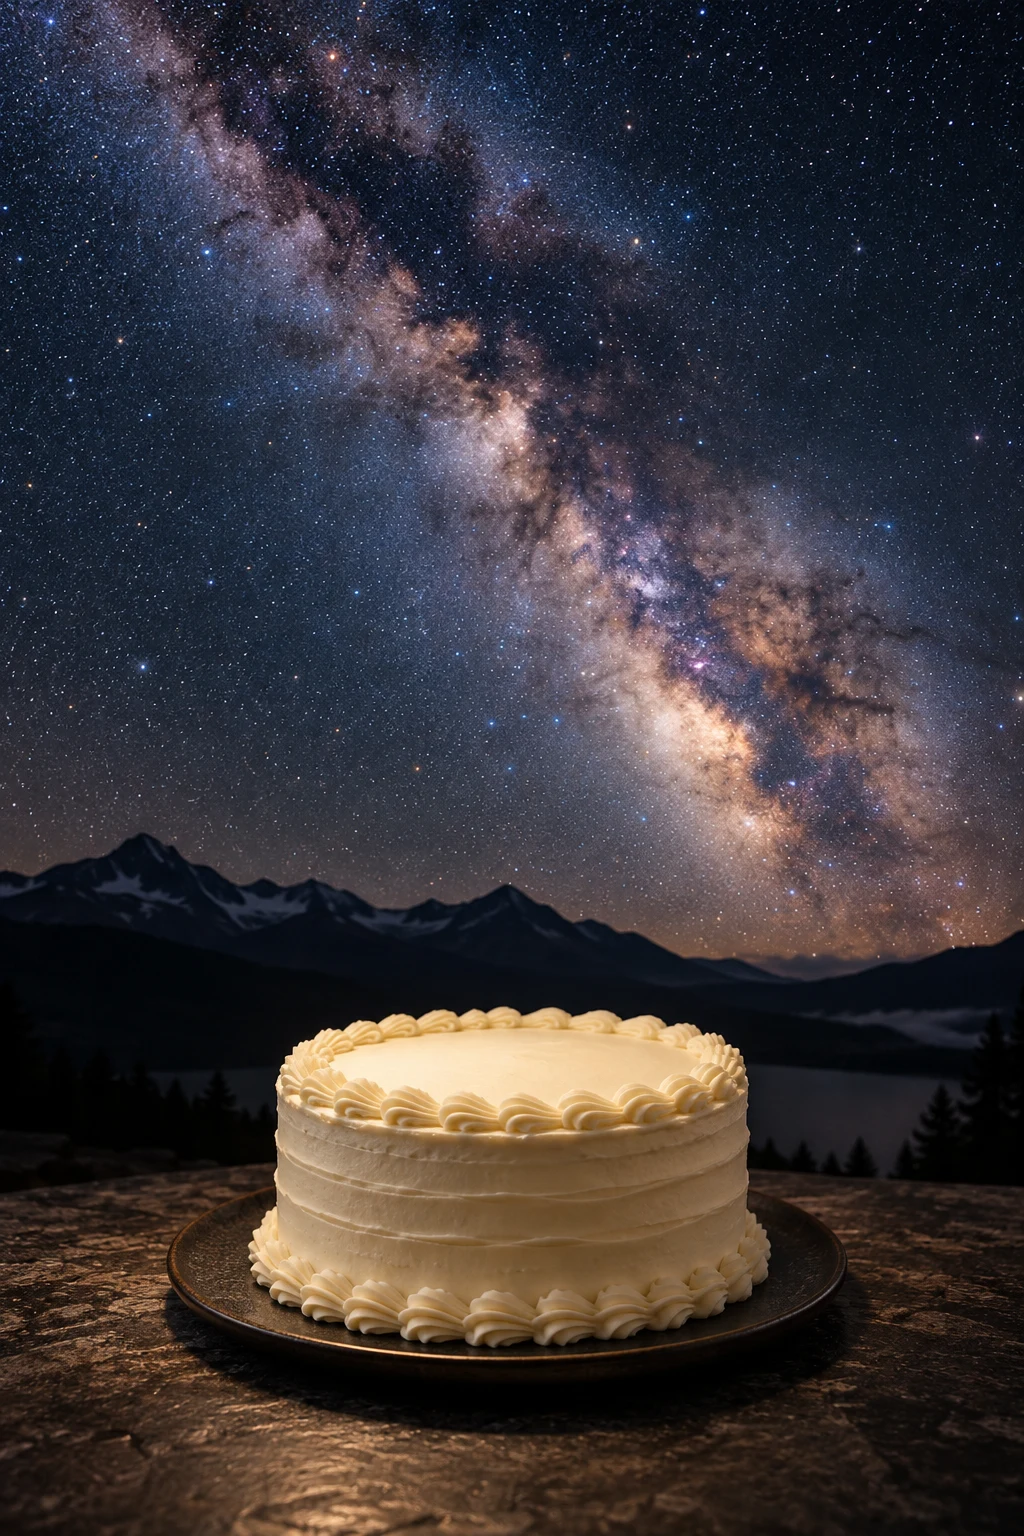
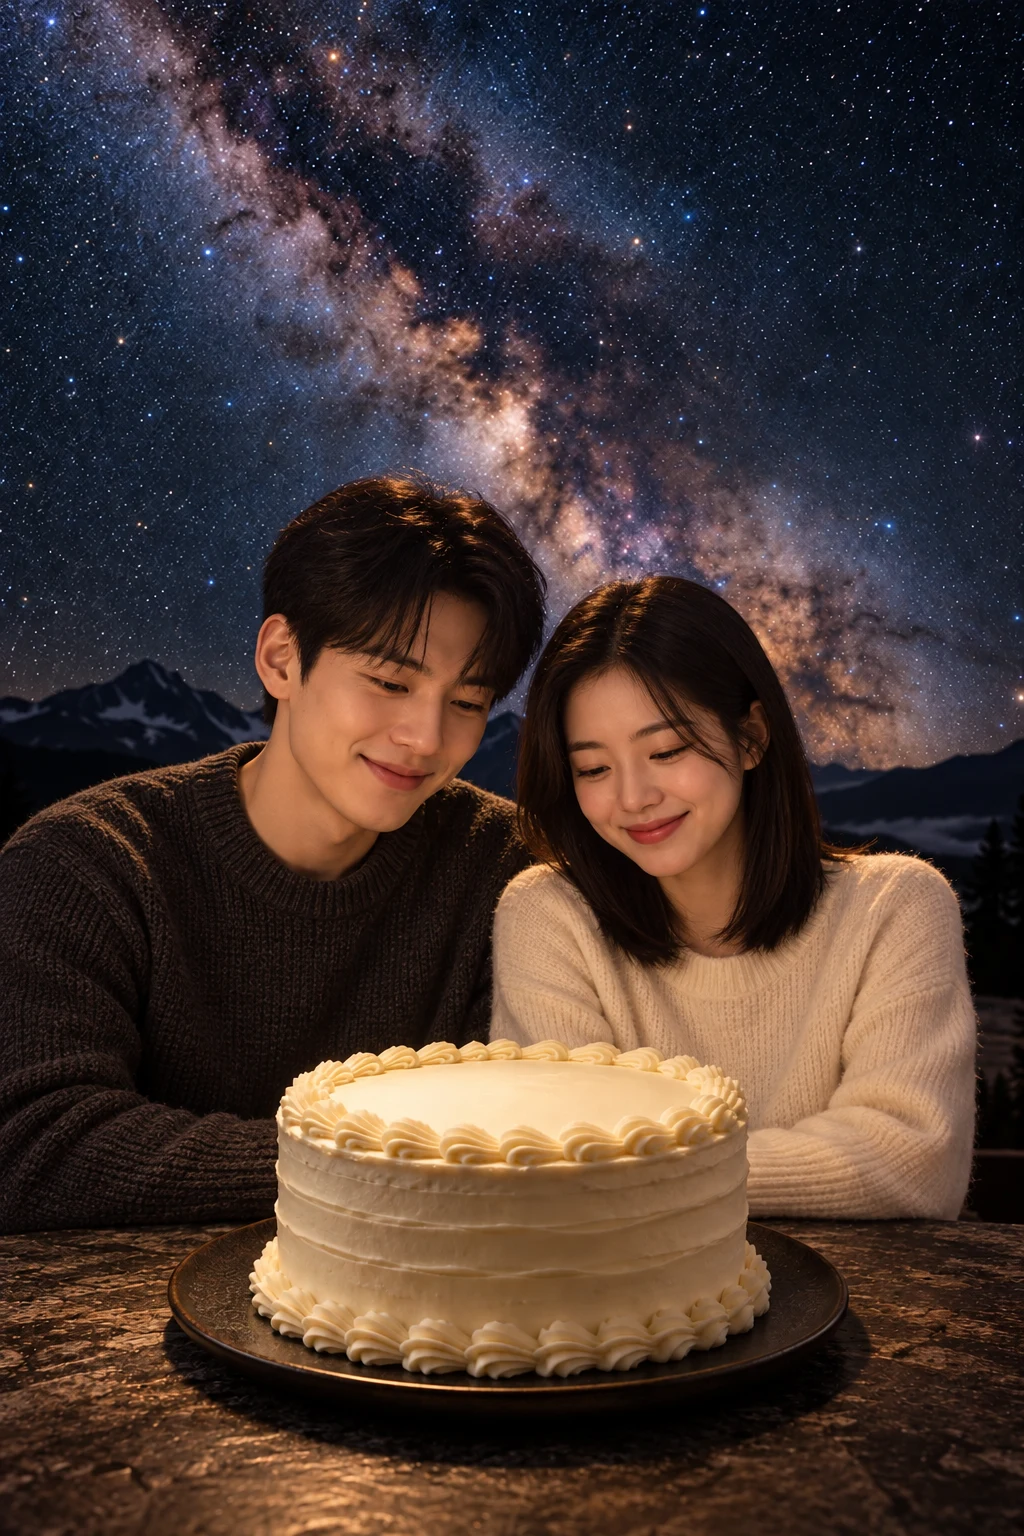
Animate couple blowing out birthday candle under the Milky Way

diff --git a/src/birthday.js b/src/birthday.js
@@ -1,7 +1,7 @@
 /* A date-only gift: no schedule writes, credentials, audio or external requests. */
 (() => {
   'use strict';
-  let dialog, frame = 0, opener;
+  let dialog, frame = 0, opener, blowTimers = [], blowing = false, blowRun = 0;
   const motion = window.matchMedia('(prefers-reduced-motion: reduce)');
   const paragraphs = [
     '생일 축하해!! 출국한 지도 벌써 한달이 넘어가네 교환 준비하고 적응하는 데에 챙길 게 너무 많았을 텐데도 벌써 룸메들이랑 잘 지내는 게 정말 대단하고 멋있어 앞으로도 유덥에서 좋은 시간만 잔뜩 보내고 무사히 돌아왔으면 좋겠다.',
@@ -82,6 +82,46 @@
     frame=requestAnimationFrame(draw);
   }
 
+  function setCandle(out) {
+    dialog.classList.toggle('candles-out', out);
+    dialog.querySelector('.birthday-candle-button').setAttribute('aria-pressed', String(out));
+    dialog.querySelector('.birthday-candle-button').setAttribute('aria-label', out ? '촛불 켜기' : '촛불 끄기');
+    dialog.querySelector('.birthday-blow').textContent = out ? '촛불 켜기' : '촛불 끄기';
+  }
+  function clearBlow() {
+    blowRun++;
+    blowTimers.forEach(clearTimeout); blowTimers = []; blowing = false;
+    dialog.classList.remove('blowing', 'blow-wind');
+    dialog.querySelector('.birthday-stage').removeAttribute('aria-busy');
+    for (const selector of ['.birthday-candle-button', '.birthday-blow']) dialog.querySelector(selector).disabled = false;
+  }
+  function settleBlow() {
+    if (blowing) setCandle(true);
+    clearBlow();
+  }
+  async function toggleCandle() {
+    if (blowing) return;
+    if (dialog.classList.contains('candles-out')) { clearBlow(); setCandle(false); return; }
+    stop();
+    if (motion.matches) { setCandle(true); return; }
+    blowing = true;
+    const run = ++blowRun;
+    dialog.querySelector('.birthday-stage').setAttribute('aria-busy', 'true');
+    for (const selector of ['.birthday-candle-button', '.birthday-blow']) dialog.querySelector(selector).disabled = true;
+    const pose = dialog.querySelector('.birthday-pose');
+    // The extra pose loads when the dialog opens; a missing asset never traps the controls.
+    if (!pose.complete || !pose.naturalWidth) {
+      setCandle(true); clearBlow(); return;
+    }
+    dialog.classList.add('blowing');
+    const later = (ms, action) => blowTimers.push(setTimeout(() => {
+      if (run === blowRun && dialog.open) action();
+    }, ms));
+    later(650, () => dialog.classList.add('blow-wind'));
+    later(1350, () => setCandle(true));
+    later(2600, () => { clearBlow(); celebrate(); });
+  }
+
   function create() {
     dialog = document.createElement('dialog');
     dialog.className = 'birthday-dialog';
@@ -91,7 +131,9 @@
       <div class="birthday-scroll"><section class="birthday-hero">
         <div class="birthday-stage">
           <div class="birthday-scene">
-            <img class="birthday-photo" src="birthday-night.webp" width="1024" height="1536" alt="은하수가 펼쳐진 밤하늘과 생크림 케이크" decoding="async">
+            <img class="birthday-photo" src="birthday-night.webp?v=20261020-4" width="1024" height="1536" alt="은하수 아래 남녀가 함께 케이크를 바라보는 모습" decoding="async">
+            <img class="birthday-pose" src="birthday-blow.webp?v=20261020-4" width="1024" height="1536" alt="" aria-hidden="true" decoding="async">
+            <svg class="birthday-breath" viewBox="0 0 1024 1536" aria-hidden="true"><path d="M609 892 Q574 930 508 979"/><path d="M617 900 Q585 940 516 990"/><path d="M605 888 Q563 916 503 971"/></svg>
             <div class="birthday-candle-glow" aria-hidden="true"></div>
             <button class="birthday-candle-button" type="button" aria-label="촛불 끄기" aria-pressed="false">
               <span class="birthday-wax" aria-hidden="true"></span><span class="birthday-wick" aria-hidden="true"></span>
@@ -114,27 +156,19 @@
     }
     document.body.appendChild(dialog);
     dialog.querySelector('.birthday-close').addEventListener('click', () => dialog.close());
-    dialog.addEventListener('close', () => { stop(); if (opener?.isConnected) opener.focus(); });
-    function toggleCandle() {
-      const out = !dialog.classList.contains('candles-out');
-      dialog.classList.toggle('candles-out', out);
-      dialog.querySelector('.birthday-candle-button').setAttribute('aria-pressed', String(out));
-      dialog.querySelector('.birthday-candle-button').setAttribute('aria-label', out ? '촛불 켜기' : '촛불 끄기');
-      dialog.querySelector('.birthday-blow').textContent = out ? '촛불 켜기' : '촛불 끄기';
-      if (out) celebrate();
-    }
+    dialog.addEventListener('close', () => { clearBlow(); stop(); if (opener?.isConnected) opener.focus(); });
     dialog.querySelector('.birthday-candle-button').addEventListener('click', toggleCandle);
     dialog.querySelector('.birthday-blow').addEventListener('click', toggleCandle);
     dialog.querySelector('.birthday-replay').addEventListener('click', celebrate);
     dialog.querySelector('.birthday-primary').addEventListener('click', event => {
-      stop();
+      settleBlow(); stop();
       dialog.querySelector('.birthday-letter').hidden = false;
       event.currentTarget.setAttribute('aria-expanded', 'true');
       dialog.querySelector('.birthday-letter').focus({preventScroll:true});
       dialog.querySelector('.birthday-letter').scrollIntoView({behavior:motion.matches?'auto':'smooth', block:'start'});
     });
-    document.addEventListener('visibilitychange', () => { if (document.hidden) stop(); });
-    motion.addEventListener('change', stop);
+    document.addEventListener('visibilitychange', () => { if (document.hidden) { settleBlow(); stop(); } });
+    motion.addEventListener('change', () => { settleBlow(); stop(); });
     window.addEventListener('resize', stop);
   }
   window.ScheduleBirthday = {
@@ -142,10 +176,7 @@
       if (!dialog) create();
       if (dialog.open) return;
       opener = document.activeElement;
-      dialog.classList.remove('candles-out');
-      dialog.querySelector('.birthday-candle-button').setAttribute('aria-pressed', 'false');
-      dialog.querySelector('.birthday-candle-button').setAttribute('aria-label', '촛불 끄기');
-      dialog.querySelector('.birthday-blow').textContent = '촛불 끄기';
+      clearBlow(); setCandle(false);
       dialog.querySelector('.birthday-letter').hidden = true;
       dialog.querySelector('.birthday-primary').setAttribute('aria-expanded', 'false');
       dialog.showModal();

diff --git a/src/birthday.css b/src/birthday.css
@@ -11,11 +11,11 @@
 .birthday-stage{position:relative;overflow:hidden;width:100%;height:calc(100vh - 110px - env(safe-area-inset-bottom));height:calc(100dvh - 110px - env(safe-area-inset-bottom));min-height:420px}
 .birthday-scene{position:absolute;left:50%;top:50%;transform:translate(-50%,-50%);width:max(100%,calc((100vh - 110px - env(safe-area-inset-bottom))*2/3));width:max(100%,calc((100dvh - 110px - env(safe-area-inset-bottom))*2/3));min-width:280px;aspect-ratio:2/3}
 .birthday-photo{display:block;width:100%;height:auto}
-.birthday-candle-button{position:absolute;left:50%;top:69.5%;transform:translate(-50%,-100%);width:64px;height:13%;min-height:80px;padding:0;border:0;background:transparent;cursor:pointer;z-index:3;-webkit-tap-highlight-color:transparent}
+.birthday-candle-button{position:absolute;left:50%;top:71.5%;transform:translate(-50%,-100%);width:64px;height:13%;min-height:80px;padding:0;border:0;background:transparent;cursor:pointer;z-index:3;-webkit-tap-highlight-color:transparent}
 .birthday-wax{position:absolute;bottom:0;left:calc(50% - 3px);width:6px;height:48%;border-radius:2px 2px 1px 1px;background:linear-gradient(90deg,#927e5c,#f6e6bb 35%,#ddc99f 70%,#9e8661);box-shadow:2px 1px 3px #0005}
 .birthday-wick{position:absolute;left:calc(50% - .5px);bottom:48%;height:5%;width:1px;background:#322c27}
 .birthday-flame{position:absolute;left:calc(50% - 4px);bottom:51%;width:8px;height:22%;border-radius:60% 40% 45% 45%;background:radial-gradient(ellipse at 50% 88%,#7187d8 0,transparent 25%),linear-gradient(#ffb958,#fffbe3 50%,#fff0ab 80%,#d38028);box-shadow:0 0 7px #ffdb9b,0 0 21px #ffa94d99;transform-origin:50% 100%;animation:birthday-flame 1.8s ease-in-out infinite alternate;transition:opacity .25s,filter .25s}
-.birthday-candle-glow{position:absolute;left:50%;top:66%;width:32%;aspect-ratio:1;transform:translate(-50%,-50%);pointer-events:none;background:radial-gradient(ellipse,#ffce7617,transparent 68%);transition:opacity .6s}
+.birthday-candle-glow{position:absolute;left:50%;top:68%;width:32%;aspect-ratio:1;transform:translate(-50%,-50%);pointer-events:none;background:radial-gradient(ellipse,#ffce7617,transparent 68%);transition:opacity .6s}
 .birthday-smoke{position:absolute;left:calc(50% - 5px);bottom:52%;width:10px;height:45%;border-left:2px solid #c5cbd588;border-radius:50%;filter:blur(2px);opacity:0;pointer-events:none}
 .candles-out .birthday-flame,.candles-out .birthday-candle-glow{opacity:0;animation:none}
 .candles-out .birthday-smoke{animation:birthday-smoke 2.8s ease-out both}
@@ -30,3 +30,13 @@
 @media(prefers-reduced-motion:reduce){.birthday-dialog *{animation:none!important;scroll-behavior:auto!important}}
 @media(max-width:360px){.birthday-scroll{padding-left:14px;padding-right:14px}.birthday-letter{padding:28px 22px}.birthday-hero{width:calc(100% + 28px);margin-left:-14px;margin-right:-14px}}
 @media(min-aspect-ratio:2/3){.birthday-stage{width:calc(max(420px,100dvh - 110px - env(safe-area-inset-bottom))*2/3);max-width:100%;margin-inline:auto}}
+
+.birthday-pose{position:absolute;inset:0;width:100%;height:auto;opacity:0;pointer-events:none;transition:opacity .65s ease-in-out;-webkit-mask-image:radial-gradient(ellipse 40% 29% at 76% 58%,#000 60%,transparent 100%);mask-image:radial-gradient(ellipse 40% 29% at 76% 58%,#000 60%,transparent 100%)}
+.blowing .birthday-pose{opacity:1}
+.birthday-breath{position:absolute;inset:0;width:100%;height:100%;pointer-events:none;opacity:0;fill:none;stroke:#e6e9ed;stroke-width:1;stroke-linecap:round;filter:blur(.6px)}
+.blow-wind .birthday-breath{animation:birthday-breath .8s ease-out both}
+.blow-wind:not(.candles-out) .birthday-flame{animation:birthday-blow-flame .7s ease-in both}
+.birthday-blow:disabled{opacity:.65;cursor:default}
+@keyframes birthday-breath{0%{opacity:0;stroke-dasharray:0 160}35%{opacity:.24;stroke-dasharray:60 160;stroke-dashoffset:0}100%{opacity:0;stroke-dasharray:60 160;stroke-dashoffset:-120}}
+@keyframes birthday-blow-flame{0%{transform:rotate(0) scale(1)}35%{transform:rotate(-45deg) scale(.8,1.1)}65%{transform:rotate(-65deg) scale(.7,.9)}100%{transform:rotate(-75deg) scale(.25,.5);opacity:0}}
+@media(prefers-reduced-motion:reduce){.birthday-pose,.birthday-flame,.birthday-candle-glow{transition:none}.birthday-breath{display:none}}

diff --git a/src/index.html b/src/index.html
@@ -11,8 +11,8 @@
 <link rel="stylesheet" href="bridge-client.css?v=20260914-layout">
 <link rel="stylesheet" href="push-client.css?v=20260914-push1">
 <link rel="stylesheet" href="school-client.css?v=20260915-calendar1">
-<link rel="stylesheet" href="birthday.css?v=20261020-3">
-<script src="birthday.js?v=20261020-3" defer></script>
+<link rel="stylesheet" href="birthday.css?v=20261020-4">
+<script src="birthday.js?v=20261020-4" defer></script>
 <title>동영 스케줄</title>
 <style>
 :root{

diff --git a/src/tests/test_calendar_feed.py b/src/tests/test_calendar_feed.py
@@ -167,7 +167,7 @@ class CalendarBuildTests(unittest.TestCase):
                     "push-client.css", "manifest.webmanifest", "sw.js", "push-config.json",
                     "icon-192.png", "icon-512.png", "badge-96.png", "events.ics",
                     "school-client.js", "school-client.css", "school-calendar.js",
-                    "birthday.js", "birthday.css", "birthday-night.webp",
+                    "birthday.js", "birthday.css", "birthday-night.webp", "birthday-blow.webp",
                     "DB/events.json", "DB/travel.json", "DB/plan.json",
                     "events.json", "travel.json", "plan.json"}
         self.assertEqual(files, expected)

diff --git a/src/build.py b/src/build.py
@@ -15,7 +15,7 @@ FRONTEND_FILES = (
     "push-client.js", "push-client.css", "manifest.webmanifest", "sw.js",
     "push-config.json", "icon-192.png", "icon-512.png", "badge-96.png",
     "school-client.js", "school-client.css", "school-calendar.js",
-    "birthday.js", "birthday.css", "birthday-night.webp",
+    "birthday.js", "birthday.css", "birthday-night.webp", "birthday-blow.webp",
 )
 
 

diff --git a/src/birthday-assets.md b/src/birthday-assets.md
@@ -1,10 +1,13 @@
-# Birthday scene
+# Birthday scenes
 
-`birthday-night.webp` is an AI-generated photorealistic scene created for this app
-with OpenAI image generation on 2026-10-19 (Asia/Seoul). It depicts a Milky Way
-night sky and an ivory buttercream cake. It is not a photograph of an actual
-location or an image downloaded from a photographer.
+`birthday-night.webp` and `birthday-blow.webp` are AI-generated photorealistic
+scenes created for this app with OpenAI image generation on 2026-10-19
+(Asia/Seoul). They depict a fictional adult couple looking at a cake beneath
+the Milky Way, and the same woman leaning forward to blow out the candle.
+They are not photographs of the user or any actual couple.
 
-The original 1024 × 1536 PNG was encoded as WebP quality 88 for mobile loading.
-The candle, flame, smoke and fireworks are interactive HTML/CSS/canvas layers;
-the image contains no candle. The asset is served locally with the website.
+Both 1024 × 1536 PNG originals were encoded as WebP quality 88 for mobile
+loading. A masked photo transition shows the woman's change of pose while
+keeping the cake and sky steady. The candle, flame, breath, smoke and fireworks
+are interactive HTML/CSS/SVG/canvas layers. Assets are served with the site;
+no microphone or external image service is used at runtime.
